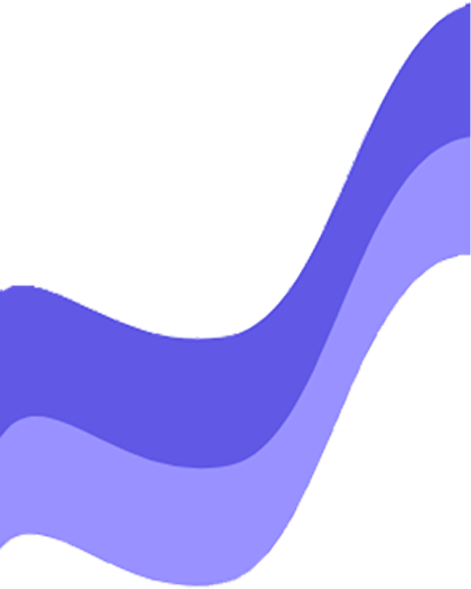
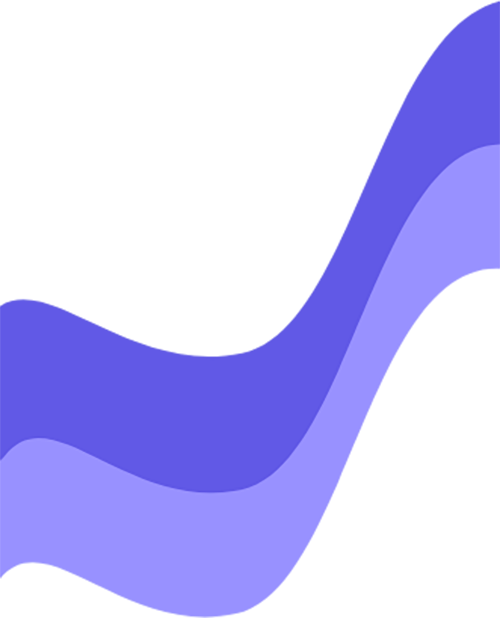
Added Login Screen

diff --git a/studily/lib/screens/login_screen/components/login_body.dart b/studily/lib/screens/login_screen/components/login_body.dart
@@ -1,0 +1,55 @@
+import 'package:flutter/material.dart';
+import 'package:studily/components/rounded_input_field.dart';
+import 'package:studily/components/rounded_password_field.dart';
+import 'package:studily/components/text_field_container.dart';
+import 'package:studily/screens/home_screen/home_screen.dart';
+import 'login_background.dart';
+
+class LoginBody extends StatelessWidget {
+  @override
+  Widget build(BuildContext context) {
+    Size size = MediaQuery.of(context).size;
+    return Scaffold(
+      body: LoginBackground(
+        child: Column(
+          mainAxisAlignment: MainAxisAlignment.center,
+          children: <Widget>[
+            Text(
+              "Login",
+              style: TextStyle(
+                  fontWeight: FontWeight.w400,
+                  decoration: TextDecoration.underline,
+                  fontSize: 55),
+            ),
+            Image.asset(
+              'assets/LoginScreenImages/undraw_unlock_24mb.png',
+              width: size.width * 2,
+            ),
+            RoundedInputContainer(
+              hintText: "Enter Email",
+              onChanged: (value) {},
+            ),
+            RoundedPasswordField(
+              onChanged: (value) {},
+            ),
+            ClipRRect(
+              borderRadius: BorderRadius.circular(10),
+              child: RaisedButton(
+                  color: Color(0xff6159E6),
+                  padding: EdgeInsets.symmetric(vertical: 15, horizontal: 100),
+                  child: Text(
+                    'Sign In',
+                    style: TextStyle(fontSize: 18, color: Colors.white),
+                  ),
+                  onPressed: () {
+                    Navigator.push(context,
+                        MaterialPageRoute(builder: (context) => HomeScreen()));
+                    // Code for navigation
+                  }),
+            )
+          ],
+        ),
+      ),
+    );
+  }
+}

diff --git a/studily/lib/screens/login_screen/components/login_background.dart b/studily/lib/screens/login_screen/components/login_background.dart
@@ -1,8 +1,8 @@
 import 'package:flutter/material.dart';
 
-class Background extends StatelessWidget {
+class LoginBackground extends StatelessWidget {
   final Widget child;
-  const Background({
+  const LoginBackground({
     Key key,
     @required this.child,
   }) : super(key: key);
@@ -10,7 +10,6 @@ class Background extends StatelessWidget {
   @override
   Widget build(BuildContext context) {
     Size size = MediaQuery.of(context).size;
-
     return Container(
       height: size.height,
       width: double.infinity,
@@ -18,12 +17,14 @@ class Background extends StatelessWidget {
         alignment: Alignment.center,
         children: <Widget>[
           Positioned(
-            top: 100,
+            top: -50,
+            left: -90,
             child: Image.asset(
-              'assets/LoginScreenImages/undraw_unlock_24mb.png',
-              width: size.width * 1,
+              'assets/LoginScreenImages/TopLeftBubble.png',
+              width: size.width * 1.2,
             ),
           ),
+          child,
         ],
       ),
     );

diff --git a/studily/lib/components/rounded_password_field.dart b/studily/lib/components/rounded_password_field.dart
@@ -1,0 +1,31 @@
+import 'package:flutter/material.dart';
+import 'package:studily/components/text_field_container.dart';
+
+class RoundedPasswordField extends StatelessWidget {
+  final ValueChanged<String> onChanged;
+  const RoundedPasswordField({
+    Key key,
+    this.onChanged,
+  }) : super(key: key);
+
+  @override
+  Widget build(BuildContext context) {
+    return TextFieldContainer(
+      child: TextField(
+        obscureText: true,
+        onChanged: onChanged,
+        decoration: InputDecoration(
+            hintText: "Enter Password",
+            icon: Icon(
+              Icons.lock,
+              color: Color(0xff6159E6),
+            ),
+            suffixIcon: Icon(
+              Icons.visibility,
+              color: Color(0xff6159E6),
+            ),
+            border: InputBorder.none),
+      ),
+    );
+  }
+}

diff --git a/studily/lib/components/rounded_input_field.dart b/studily/lib/components/rounded_input_field.dart
@@ -1,0 +1,30 @@
+import 'package:flutter/material.dart';
+import 'package:studily/components/text_field_container.dart';
+
+class RoundedInputContainer extends StatelessWidget {
+  final String hintText;
+  final IconData icon;
+  final ValueChanged<String> onChanged;
+  const RoundedInputContainer({
+    Key key,
+    this.hintText,
+    this.icon = Icons.person,
+    this.onChanged,
+  }) : super(key: key);
+
+  @override
+  Widget build(BuildContext context) {
+    return TextFieldContainer(
+      child: TextField(
+        onChanged: onChanged,
+        decoration: InputDecoration(
+            icon: Icon(
+              icon,
+              color: Color(0xff6159E6),
+            ),
+            hintText: hintText,
+            border: InputBorder.none),
+      ),
+    );
+  }
+}

diff --git a/studily/lib/components/text_field_container.dart b/studily/lib/components/text_field_container.dart
@@ -1,0 +1,24 @@
+import 'package:flutter/material.dart';
+
+class TextFieldContainer extends StatelessWidget {
+  final Widget child;
+  const TextFieldContainer({
+    Key key,
+    this.child,
+  }) : super(key: key);
+
+  @override
+  Widget build(BuildContext context) {
+    Size size = MediaQuery.of(context).size;
+    return Container(
+      margin: EdgeInsets.symmetric(vertical: 10),
+      padding: EdgeInsets.symmetric(horizontal: 20, vertical: 5),
+      width: size.width * 0.8,
+      decoration: BoxDecoration(
+          color: Colors.white,
+          borderRadius: BorderRadius.circular(25),
+          border: Border.all(color: Color(0xff9891FF))),
+      child: child,
+    );
+  }
+}

diff --git a/studily/lib/screens/welcome_screen/components/background.dart b/studily/lib/screens/welcome_screen/components/background.dart
@@ -18,10 +18,10 @@ class Background extends StatelessWidget {
         alignment: Alignment.center,
         children: <Widget>[
           Positioned(
-            top: 90,
-            left: 0,
+            top: 100,
+            right: 0,
             child: Image.asset(
-              'assets/WaveImages/WelcomeWave.PNG',
+              'assets/WaveImages/WelcomeWave.png',
               width: size.width * 1,
             ),
           ),

diff --git a/studily/lib/screens/login_screen/login_screen.dart b/studily/lib/screens/login_screen/login_screen.dart
@@ -1,11 +1,11 @@
 import 'package:flutter/material.dart';
-import 'package:studily/screens/login_screen/components/body.dart';
+import 'package:studily/screens/login_screen/components/login_body.dart';
 
 class LoginScreen extends StatelessWidget {
   @override
   Widget build(BuildContext context) {
     return Scaffold(
-      body: Body(),
+      body: LoginBody(),
     );
   }
 }

diff --git a/studily/lib/screens/register_screen/register_screen.dart b/studily/lib/screens/register_screen/register_screen.dart
@@ -1,7 +1,7 @@
 import 'package:flutter/material.dart';
 
-class HomeScreen extends StatelessWidget {
-  const HomeScreen({Key key}) : super(key: key);
+class RegisterScreen extends StatelessWidget {
+  const RegisterScreen({Key key}) : super(key: key);
 
   @override
   Widget build(BuildContext context) {
